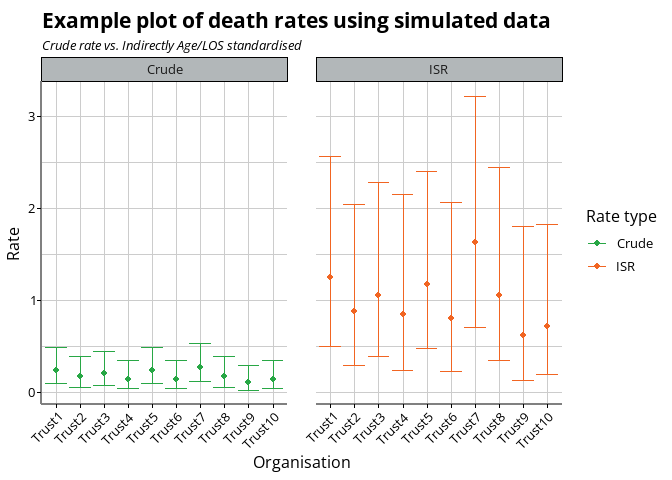
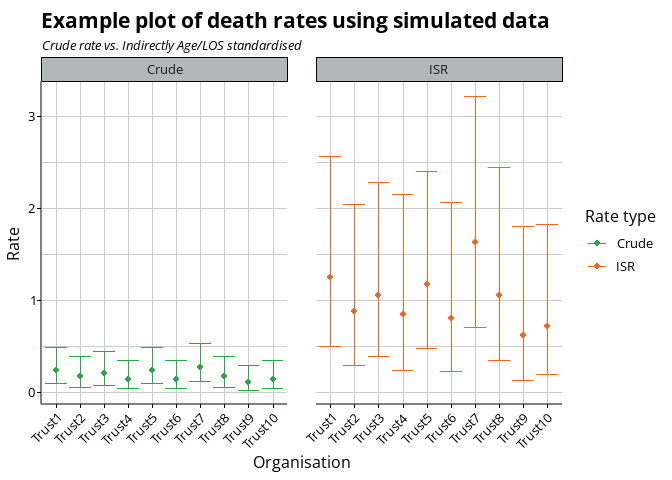
Update Readme and knit

diff --git a/README.md b/README.md
@@ -5,17 +5,16 @@
 
 [![Lifecycle:
 experimental](https://img.shields.io/badge/lifecycle-experimental-orange.svg)](https://lifecycle.r-lib.org/articles/stages.html#experimental)
-[![R-CMD-check](https://github.com/Birmingham-and-Solihull-ICS/BSOLutils/actions/workflows/R-CMD-check.yaml/badge.svg)](https://github.com/Birmingham-and-Solihull-ICS/BSOLutils/actions/workflows/R-CMD-check.yaml)
-[![Codecov test
-coverage](https://codecov.io/gh/Birmingham-and-Solihull-ICS/BSOLutils/branch/main/graph/badge.svg)](https://app.codecov.io/gh/Birmingham-and-Solihull-ICS/BSOLutils?branch=main)
+<!-- [![R-CMD-check](https://github.com/BBCS-PHI/BBCSutils/actions/workflows/R-CMD-check.yaml/badge.svg)](https://github.com/BBCS-PHI/BBCSutils/actions/workflows/R-CMD-check.yaml) -->
+<!-- [![Codecov test coverage](https://codecov.io/gh/Birmingham-and-Solihull-ICS/BSOLutils/branch/main/graph/badge.svg)](https://app.codecov.io/gh/Birmingham-and-Solihull-ICS/BSOLutils?branch=main) -->
 
 <!-- badges: end -->
 
-# BSOLutils
+# BBCSutils
 
 This repository contains an R package to help with various day-to-day
-tasks in BSOL ICB BI and Data Science teams. It contains various helper
-functions for things like:
+tasks in BBCS ICB Cluster Population Health Improvement - Analytics
+team. It contains various helper functions for things like:
 
 - confidence intervals
 - ICB colour palette functions
@@ -29,7 +28,7 @@ using the following command:
 
 ``` r
 # install.packages("remotes")
-remotes::install_github("https://github.com/Birmingham-and-Solihull-ICS/BSOLutils")
+remotes::install_github("https://github.com/BBCS-PHI/BBCSutils")
 ```
 
 # Examples
@@ -41,7 +40,7 @@ broadly, followed PHE / UKHSA guidance on methods, with an exception for
 using Ulm’s methods for standardised rates.
 
 ``` r
-library(BSOLutils)
+library(BBCSutils)
 library(NHSRdatasets)
 library(dplyr)
 data("LOS_model")
@@ -106,7 +105,7 @@ LOS_summary <-
 ## SQL-helper functions
 
 When loading data into SQL Server using R, we can rely on implicit
-conversation but it is not always right. The function below takes and
+conversation but it is not always right. The function below takes a
 data.frame input (for example the `mtcars` demo data) and suggests
 suitable data types for SQL Server import.
 
@@ -127,8 +126,8 @@ default is set to the new, clustered ICB graphic. There are other
 palettes, based off the old BSOL ICB styling and style guide colours,
 including hue-based single colour palettes.
 
-Plotting the standardisation example from above, we;ll aply both the ICB
-colour scale and the ICB theme.
+Plotting the standardisation example from above, we’ll apply both the
+ICB colour scale and the ICB theme.
 
 ``` r
 library(ggplot2)
@@ -209,12 +208,12 @@ April 2025.
 
 ``` r
 f_year(Sys.Date())
-#> [1] "2025/26"
+#> [1] "2026/27"
 
 f_year_start(Sys.Date())
-#> [1] "2025-04-01"
+#> [1] "2026-04-01"
 f_year_end(Sys.Date())
-#> [1] "2026-03-31"
+#> [1] "2027-03-31"
 ```
 
 ## Dispersion
